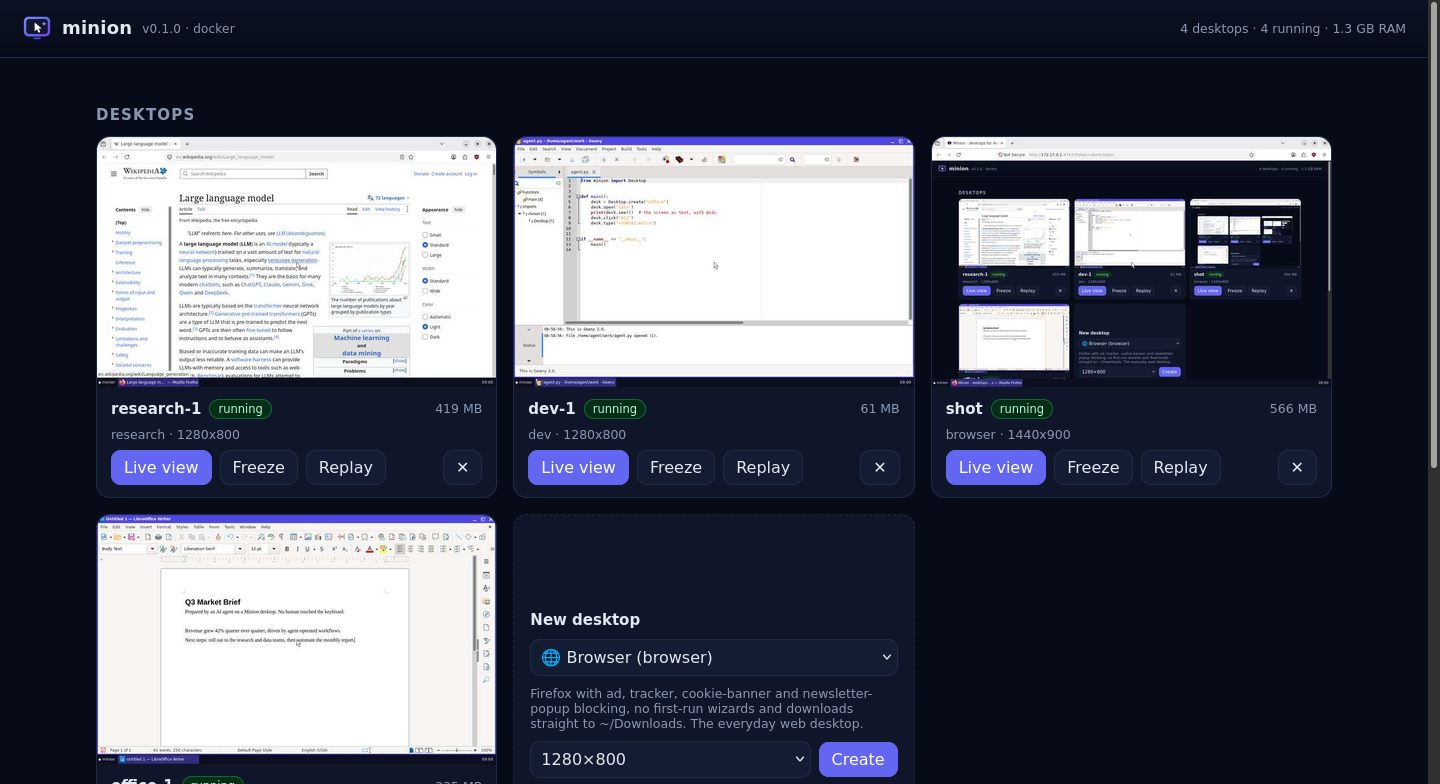
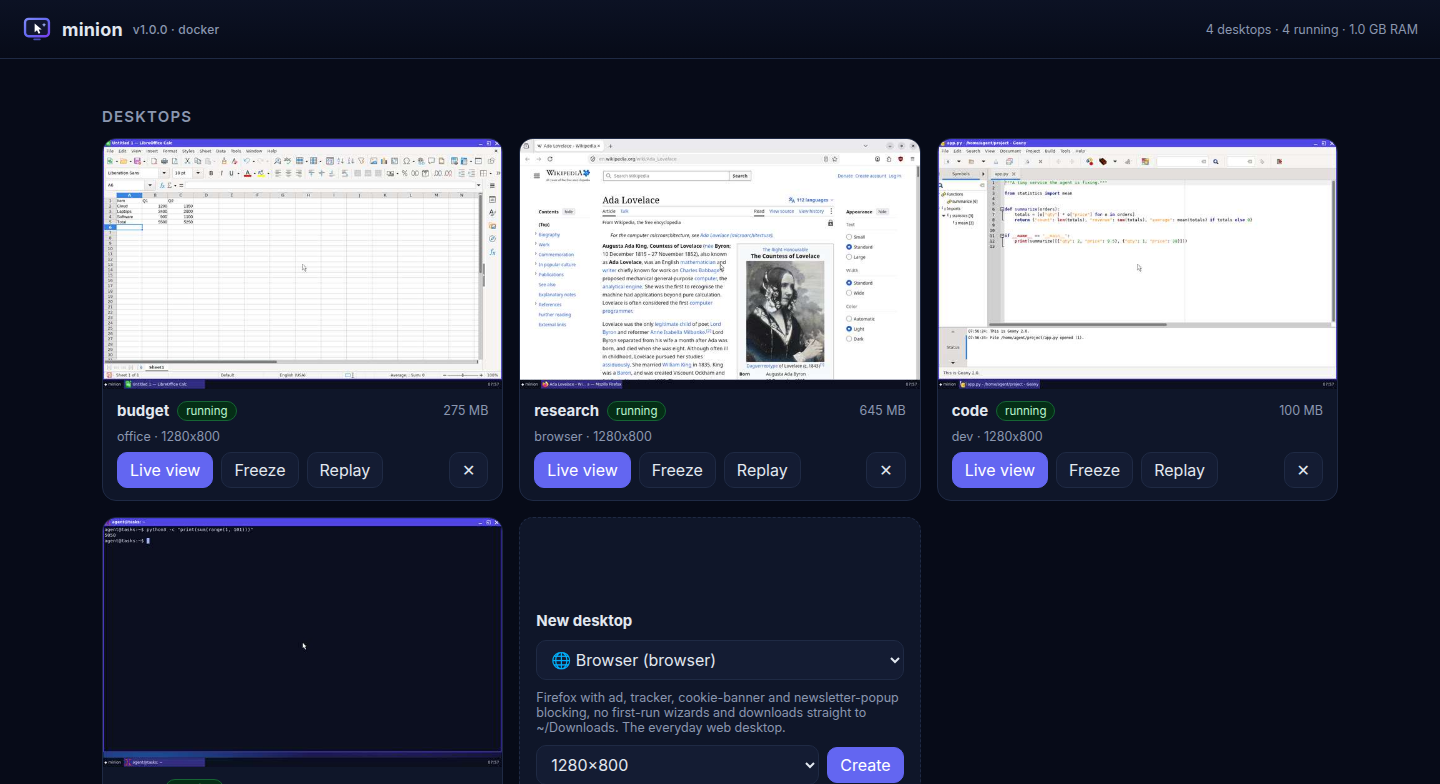
A fresh dashboard screenshot (1.0.0, four live desktops); typing gets a second look for late repaints

Changed region(s): [[0.0625, 0.1224, 0.9375, 1.0], [0.8125, 0.0, 1.0, 1.0], [0.0, 0.0306, 0.1562, 0.0612]]

diff --git a/minion/agent/server.py b/minion/agent/server.py
@@ -1073,7 +1073,11 @@ class Agent:
                 wins_after = self.windows.list(with_states=False)
             except WindowError:
                 wins_after = []
-            acted = [a for a, _ in parsed[: len(results)] if a in ("click", "double_click", "key", "fill", "select")]
+            acted = [  # (a busy app can take in a burst of typing and only repaint after the screen looked settled)
+                a
+                for a, _ in parsed[: len(results)]
+                if a in ("click", "double_click", "key", "fill", "select", "type", "paste", "menu", "path")
+            ]
             if (
                 acted
                 and p.get("settle", True) is not False

diff --git a/docs/launch/README.md b/docs/launch/README.md
@@ -132,7 +132,7 @@ Other images in [docs/assets](../assets/):
 | [demo.gif](../assets/demo.gif) | 720×480 | An agent on a `research` desktop searching Wikipedia, made by `minion replay -o demo.gif` |
 | [marks.png](../assets/marks.png) | 1280×800 | A Wikipedia page with an `@id` drawn on every clickable element (`screenshot --marks`) |
 | [live-view.png](../assets/live-view.png) | 1440×784 | The live view of an `office` desktop, with *Take control*, Paste, Screenshot, Replay and Freeze |
-| [dashboard.png](../assets/dashboard.png) | 1440×784 | The `minion serve` dashboard with four live desktops. Its header says "v0.1.0": retake it before using it in launch posts |
+| [dashboard.png](../assets/dashboard.png) | 1440×784 | The `minion serve` dashboard with four live desktops. |
 | [office.png](../assets/office.png), [research.png](../assets/research.png), [dev.png](../assets/dev.png) | 1280×800 | Full-size desktops: a Writer document, Wikipedia in Firefox, Geany with a Minion script |
 | [packaging/mcpb/icon.png](../../packaging/mcpb/icon.png) | 512×512 | The square icon, for the Product Hunt thumbnail and avatars |
 

diff --git a/docs/launch/product-hunt.md b/docs/launch/product-hunt.md
@@ -40,7 +40,6 @@ publish.
 | 6 | [office.png](../assets/office.png) | Office desktops save Microsoft formats by default and type exactly what the agent sends. |
 | 7 | [dashboard.png](../assets/dashboard.png) | One dashboard with live thumbnails of every desktop (`minion serve`). |
 
-Retake [dashboard.png](../assets/dashboard.png) before using it: its header shows "v0.1.0", and the release is 1.0.0.
 
 ## Maker's first comment
 
